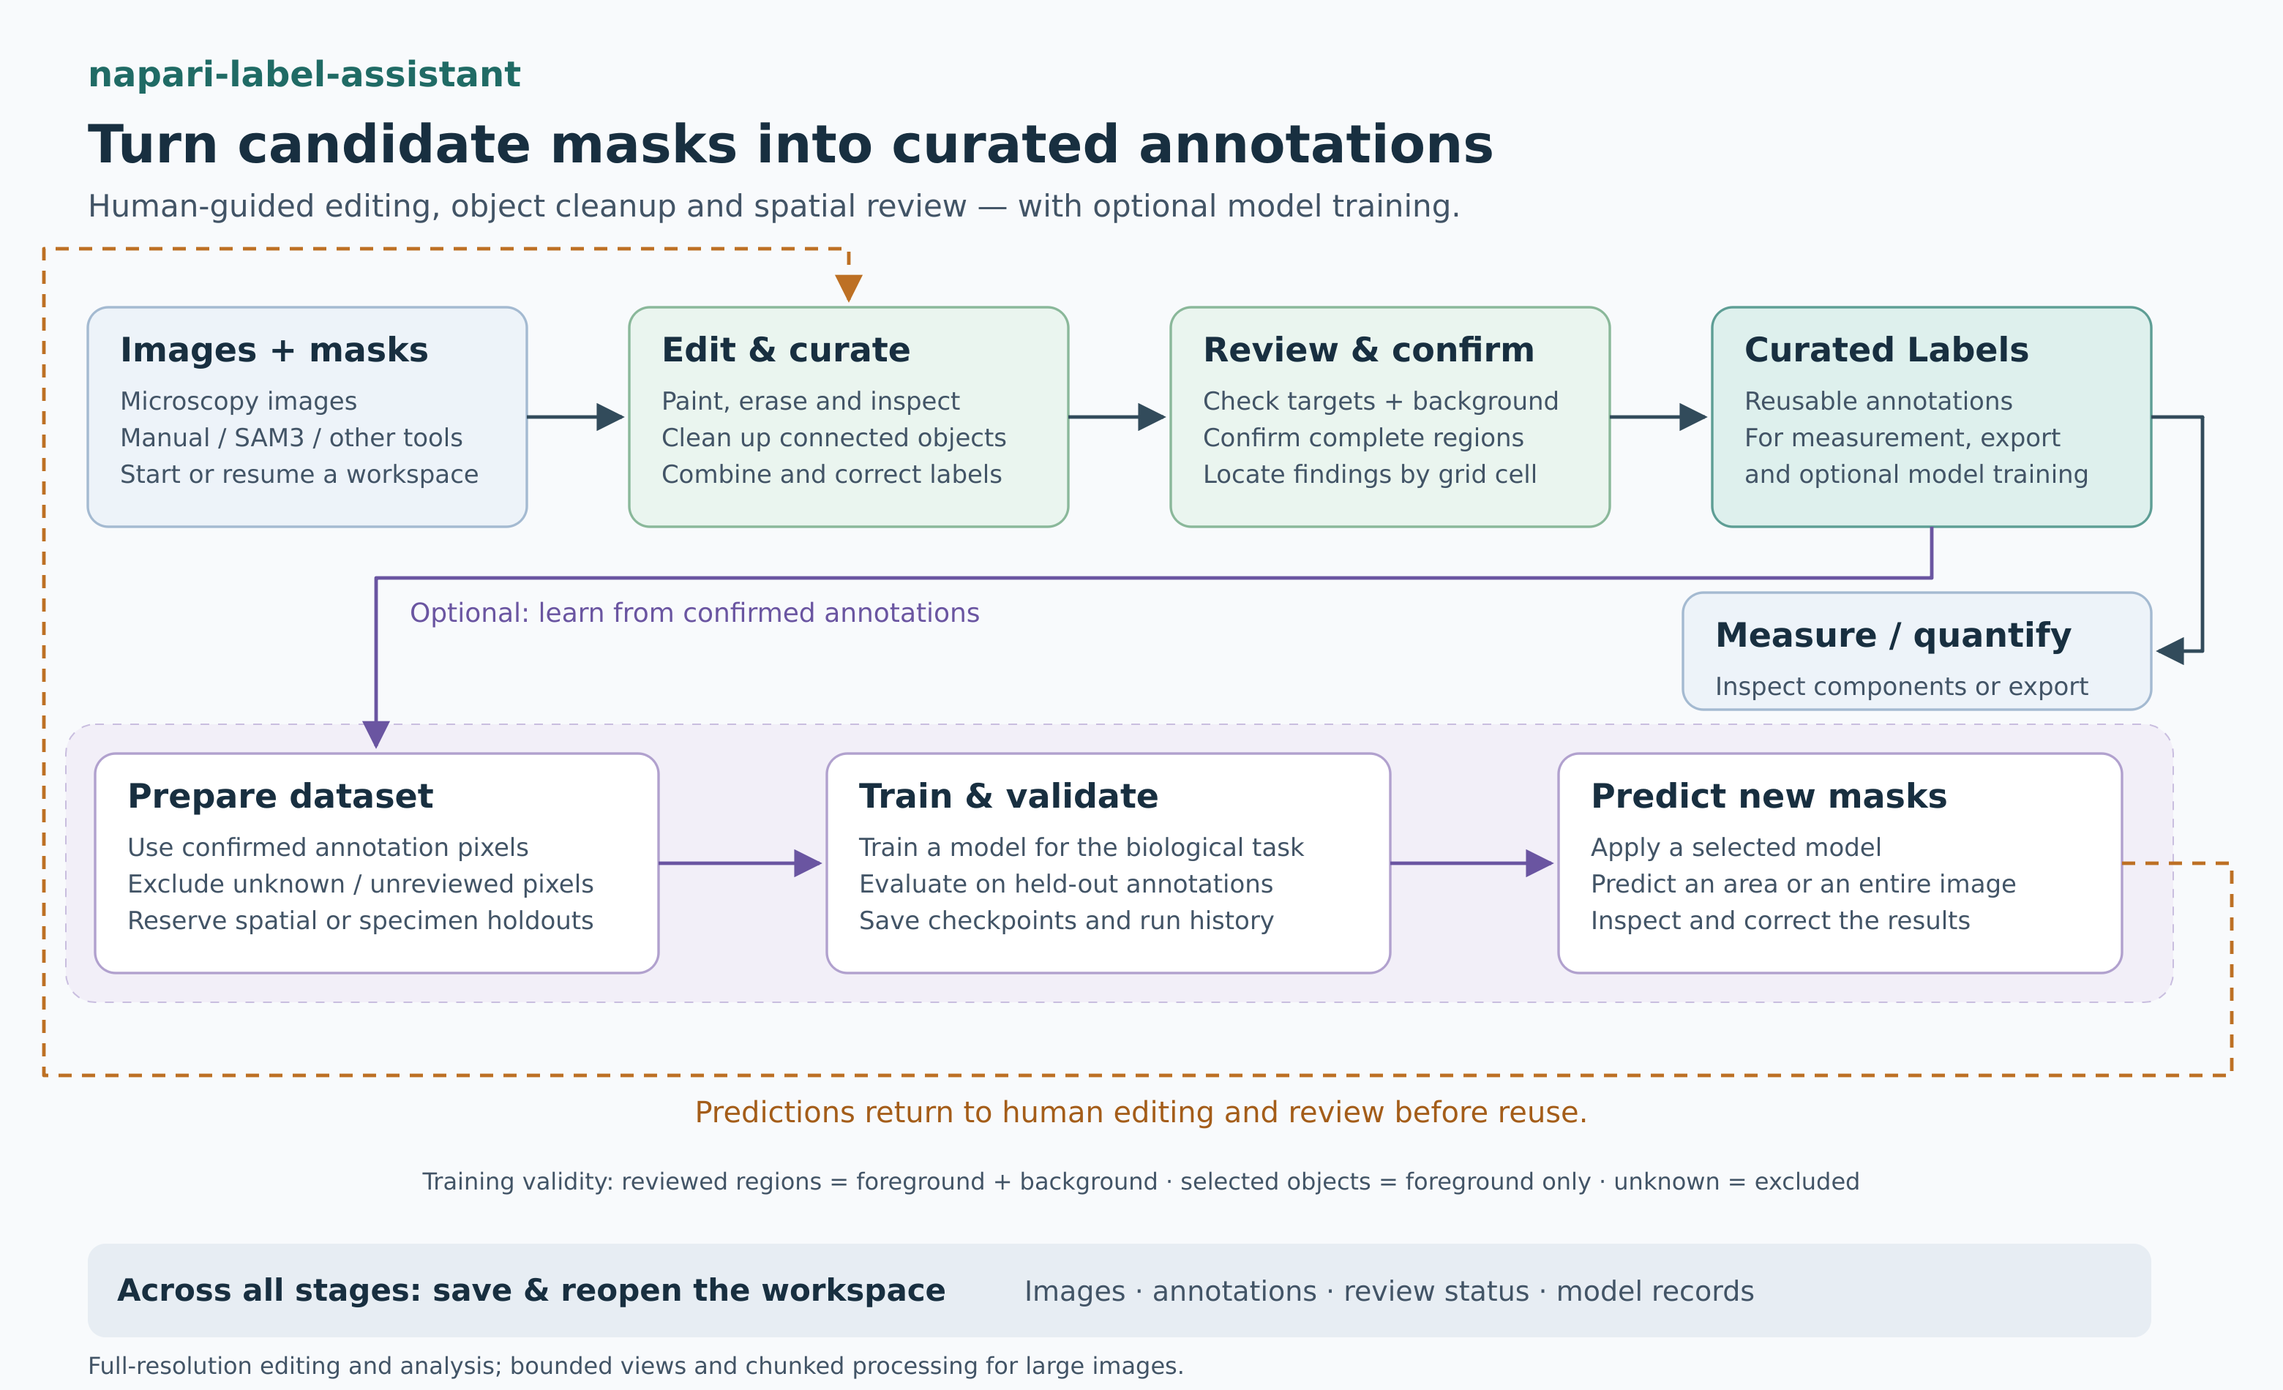
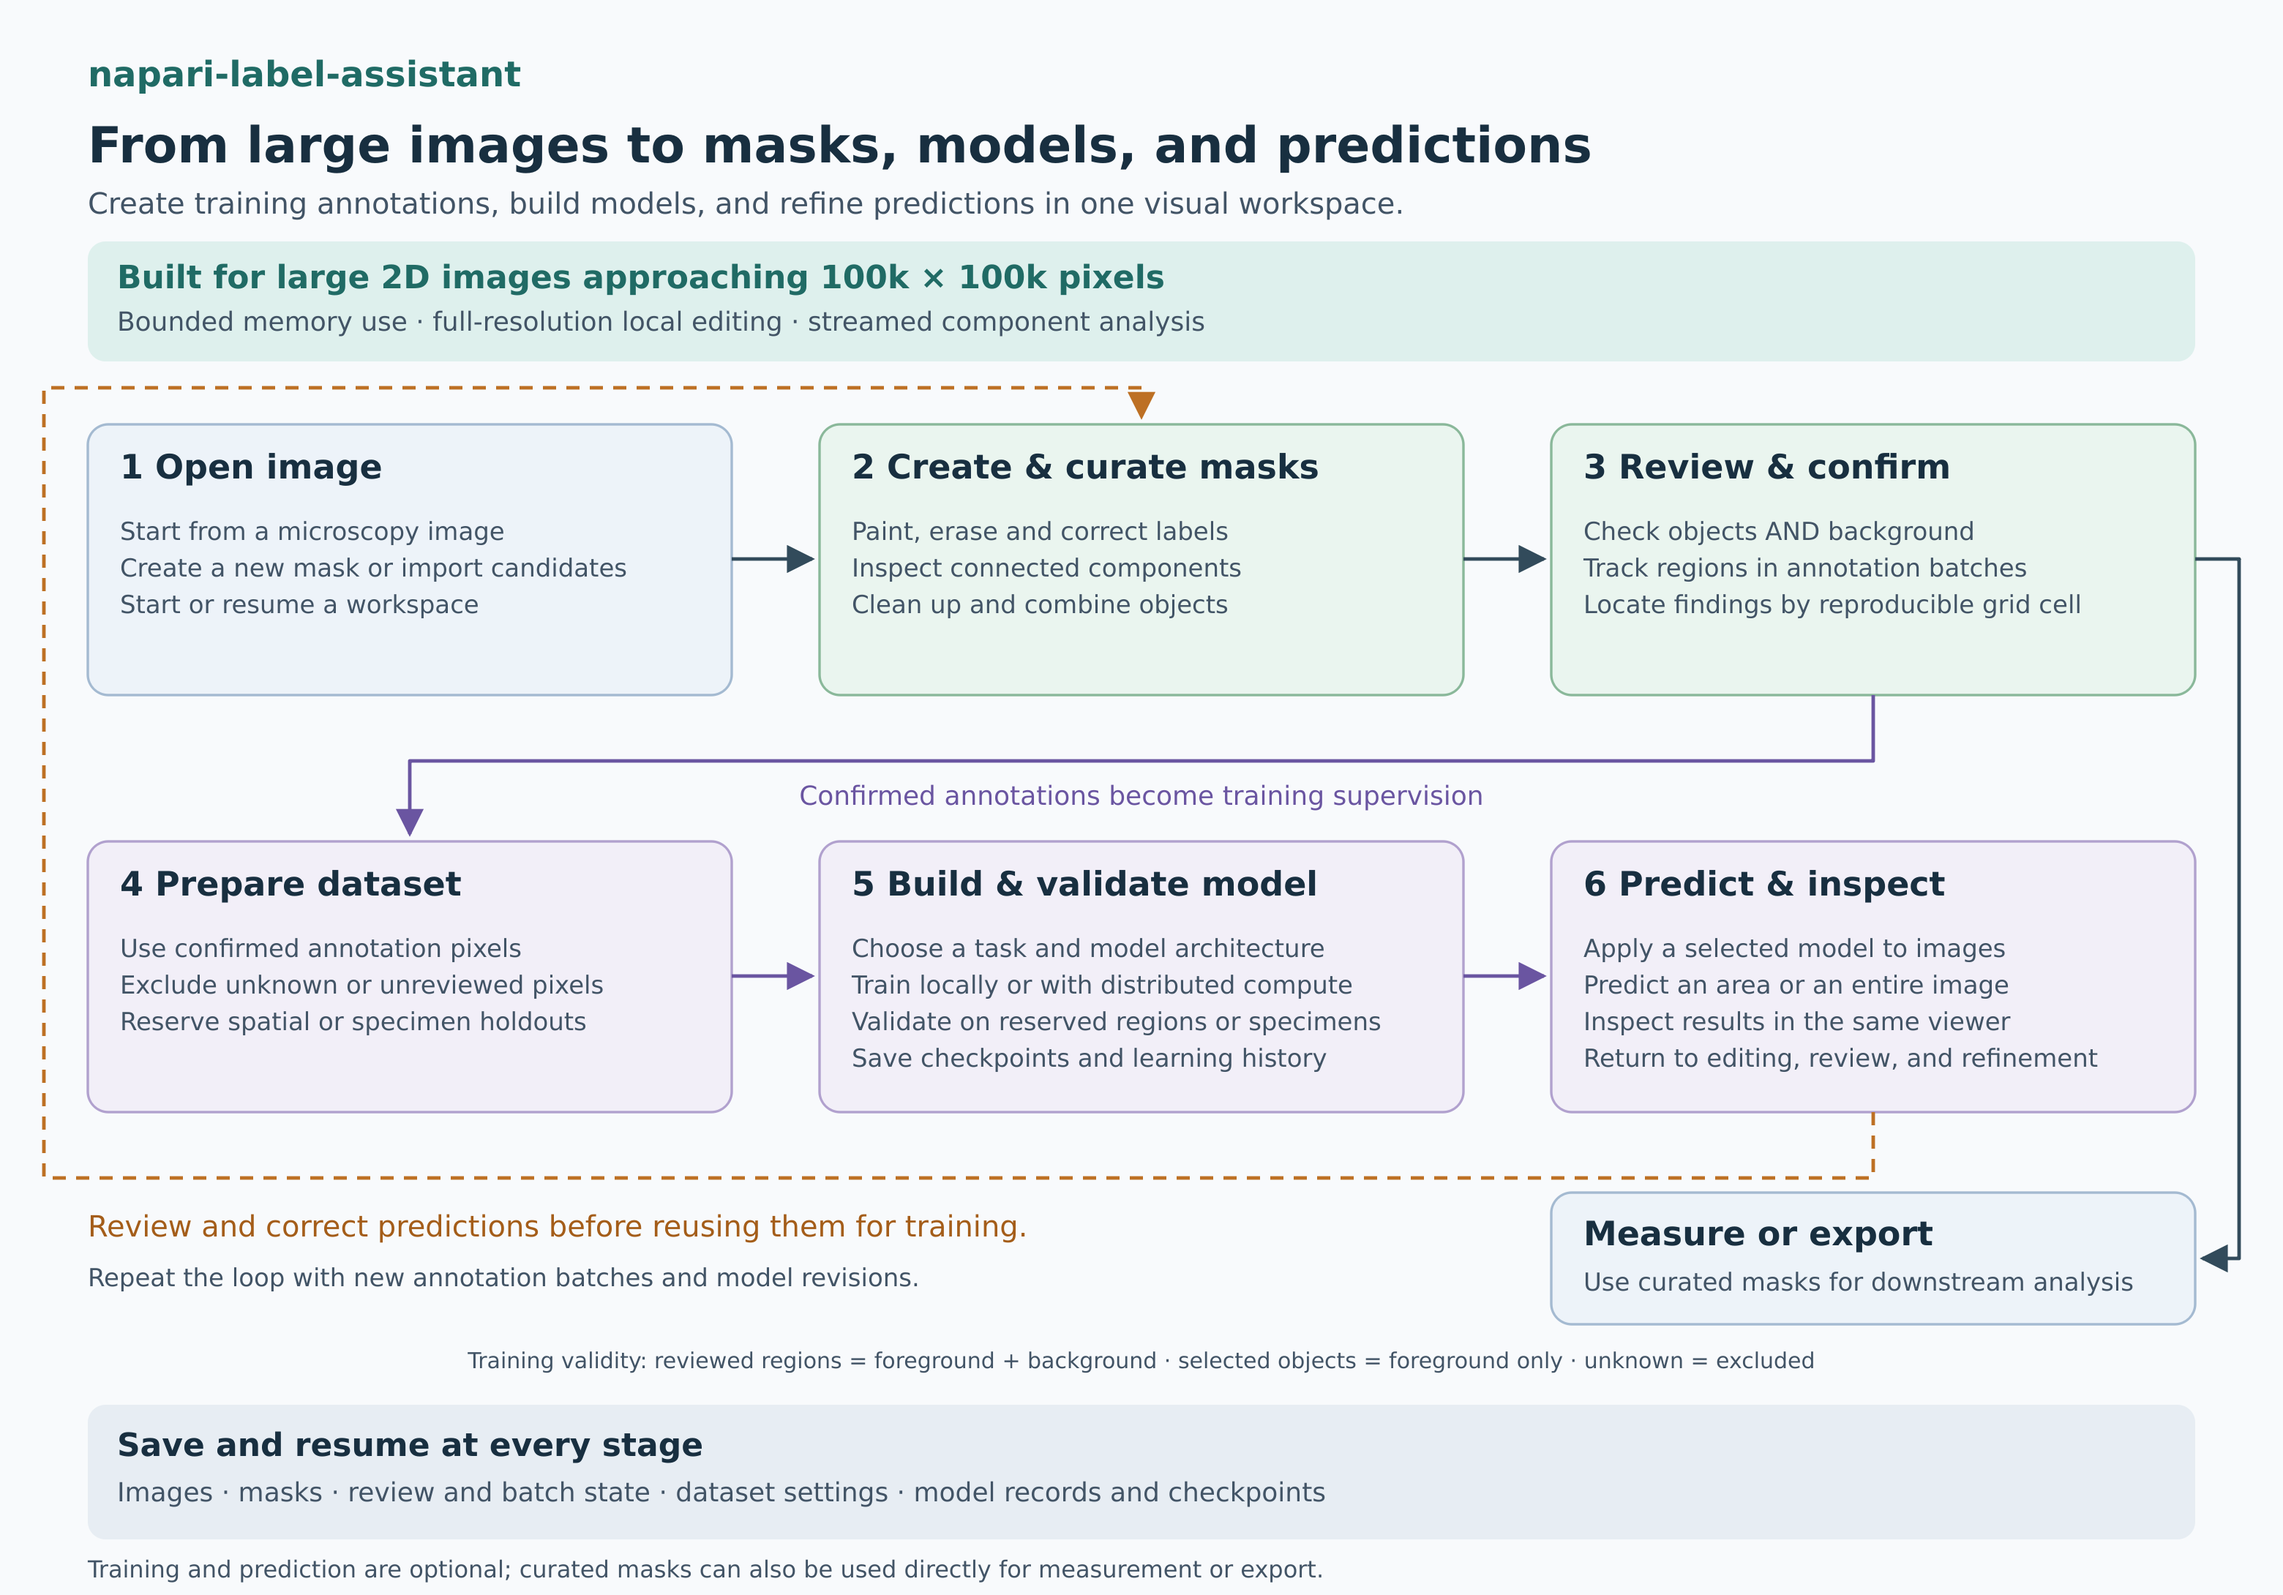
docs: update GUI screenshot and end-to-end workflow figure

diff --git a/docs/generate_purpose_flowchart.py b/docs/generate_purpose_flowchart.py
@@ -4,17 +4,17 @@ from pathlib import Path
 import argparse
 
 ROOT = Path(__file__).resolve().parent
-WIDTH, HEIGHT = 1560, 950
+WIDTH, HEIGHT = 1560, 1090
 
 
 def build_svg():
     parts = [f'<svg xmlns="http://www.w3.org/2000/svg" width="{WIDTH}" height="{HEIGHT}" viewBox="0 0 {WIDTH} {HEIGHT}" role="img" aria-labelledby="title desc">',
              '<title id="title">napari-label-assistant: purpose and workflow</title>',
-             '<desc id="desc">Open microscopy images and candidate masks, edit and curate, review and confirm, then use curated labels for measurement or optional dataset preparation, training, and prediction. Predictions return to human editing. Workspace saving supports every stage.</desc>',
+             '<desc id="desc">An end-to-end visual segmentation workflow in napari: open an image, create or import masks, curate and confirm annotations, prepare reviewed training data, train and validate a model locally or with distributed compute, and predict new masks. Predictions return to human editing and review. Bounded memory use supports large 2D images approaching 100,000 by 100,000 pixels. Curated annotations can also be measured or exported, and the workspace can be saved and resumed throughout.</desc>',
              '<defs>']
     for key, color in [('main', '#324b5b'), ('learn', '#6a55a1'), ('feedback', '#bd7024')]:
         parts.append(f'<marker id="{key}" viewBox="0 0 10 10" refX="9" refY="5" markerWidth="8" markerHeight="8" orient="auto-start-reverse"><path d="M0 0 L10 5 L0 10 Z" fill="{color}"/></marker>')
-    parts.extend(['</defs>', '<rect width="1560" height="950" fill="#f8fafc"/>',
+    parts.extend(['</defs>', f'<rect width="{WIDTH}" height="{HEIGHT}" fill="#f8fafc"/>',
                   '<g font-family="DejaVu Sans, Arial, sans-serif">'])
 
     def text(x, y, value, size=17, color='#425466', weight='400', anchor='start'):
@@ -24,7 +24,7 @@ def build_svg():
         parts.append(f'<rect x="{x}" y="{y}" width="{w}" height="{h}" rx="14" fill="{fill}" stroke="{border}" stroke-width="1.7"/>')
         text(x+22, y+37, title, 23, '#182f40', '700')
         for i, line in enumerate(lines):
-            text(x+22, y+70+i*25, line, 17)
+            text(x+22, y+79+i*25, line, 17)
 
     def arrow(path, kind='main', dashed=False):
         color = {'main': '#324b5b', 'learn': '#6a55a1', 'feedback': '#bd7024'}[kind]
@@ -32,42 +32,48 @@ def build_svg():
         parts.append(f'<path d="{path}" fill="none" stroke="{color}" stroke-width="2.4" stroke-linejoin="round"{dash} marker-end="url(#{kind})"/>')
 
     text(60, 59, 'napari-label-assistant', 24, '#206b65', '700')
-    text(60, 111, 'Turn candidate masks into curated annotations', 36, '#182f40', '700')
-    text(60, 148, 'Human-guided editing, object cleanup and spatial review — with optional model training.', 21)
+    text(60, 111, 'From large images to masks, models, and predictions', 34, '#182f40', '700')
+    text(60, 146, 'Create training annotations, build models, and refine predictions in one visual workspace.', 20)
 
-    box(60, 210, 300, 150, '#edf3f9', '#a4bad1', 'Images + masks',
-        ['Microscopy images', 'Manual / SAM3 / other tools', 'Start or resume a workspace'])
-    box(430, 210, 300, 150, '#eaf5ef', '#8ab89a', 'Edit & curate',
-        ['Paint, erase and inspect', 'Clean up connected objects', 'Combine and correct labels'])
-    box(800, 210, 300, 150, '#eaf5ef', '#8ab89a', 'Review & confirm',
-        ['Check targets + background', 'Confirm complete regions', 'Locate findings by grid cell'])
-    box(1170, 210, 300, 150, '#def0ed', '#5e9e95', 'Curated Labels',
-        ['Reusable annotations', 'For measurement, export', 'and optional model training'])
-    for start, end in [(360, 430), (730, 800), (1100, 1170)]:
-        arrow(f'M{start} 285 H{end-5}')
+    parts.append('<rect x="60" y="165" width="1440" height="82" rx="12" fill="#def0ed"/>')
+    text(80, 197, 'Built for large 2D images approaching 100k × 100k pixels', 22, '#206b65', '700')
+    text(80, 226, 'Bounded memory use · full-resolution local editing · streamed component analysis', 18)
 
-    box(1150, 405, 320, 80, '#edf3f9', '#a4bad1', 'Measure / quantify', ['Inspect components or export'])
-    arrow('M1470 285 H1505 V445 H1475')
-    text(280, 425, 'Optional: learn from confirmed annotations', 18, '#6a55a1')
+    box(60, 290, 440, 185, '#edf3f9', '#a4bad1', '1  Open image',
+        ['Start from a microscopy image', 'Create a new mask or import candidates', 'Start or resume a workspace'])
+    box(560, 290, 440, 185, '#eaf5ef', '#8ab89a', '2  Create & curate masks',
+        ['Paint, erase and correct labels', 'Inspect connected components', 'Clean up and combine objects'])
+    box(1060, 290, 440, 185, '#eaf5ef', '#8ab89a', '3  Review & confirm',
+        ['Check objects AND background', 'Track regions in annotation batches', 'Locate findings by reproducible grid cell'])
+    for start, end in [(500, 560), (1000, 1060)]:
+        arrow(f'M{start} 382 H{end-5}')
 
-    parts.append('<rect x="45" y="495" width="1440" height="190" rx="20" fill="#f2eff8" stroke="#c9bedf" stroke-dasharray="6 6"/>')
-    box(65, 515, 385, 150, '#ffffff', '#b1a1ce', 'Prepare dataset',
-        ['Use confirmed annotation pixels', 'Exclude unknown / unreviewed pixels', 'Reserve spatial or specimen holdouts'])
-    box(565, 515, 385, 150, '#ffffff', '#b1a1ce', 'Train & validate',
-        ['Train a model for the biological task', 'Evaluate on held-out annotations', 'Save checkpoints and run history'])
-    box(1065, 515, 385, 150, '#ffffff', '#b1a1ce', 'Predict new masks',
-        ['Apply a selected model', 'Predict an area or an entire image', 'Inspect and correct the results'])
-    arrow('M1320 360 V395 H257 V510', 'learn')
-    arrow('M450 590 H560', 'learn')
-    arrow('M950 590 H1060', 'learn')
-    arrow('M1450 590 H1525 V735 H30 V170 H580 V205', 'feedback', True)
-    text(780, 767, 'Predictions return to human editing and review before reuse.', 20, '#a45d19', '500', 'middle')
+    arrow('M1280 475 V520 H280 V570', 'learn')
+    text(780, 550, 'Confirmed annotations become training supervision', 18, '#6a55a1', anchor='middle')
 
-    text(780, 813, 'Training validity: reviewed regions = foreground + background · selected objects = foreground only · unknown = excluded', 16, '#425466', anchor='middle')
-    parts.append('<rect x="60" y="850" width="1410" height="64" rx="12" fill="#e7edf3"/>')
-    text(80, 889, 'Across all stages: save & reopen the workspace', 21, '#182f40', '700')
-    text(700, 889, 'Images · annotations · review status · model records', 19)
-    text(60, 939, 'Full-resolution editing and analysis; bounded views and chunked processing for large images.', 16)
+    box(60, 575, 440, 185, '#f2eff8', '#b1a1ce', '4  Prepare dataset',
+        ['Use confirmed annotation pixels', 'Exclude unknown or unreviewed pixels', 'Reserve spatial or specimen holdouts'])
+    box(560, 575, 440, 185, '#f2eff8', '#b1a1ce', '5  Build & validate model',
+        ['Choose a task and model architecture', 'Train locally or with distributed compute', 'Validate on reserved regions or specimens', 'Save checkpoints and learning history'])
+    box(1060, 575, 440, 185, '#f2eff8', '#b1a1ce', '6  Predict & inspect',
+        ['Apply a selected model to images', 'Predict an area or an entire image', 'Inspect results in the same viewer', 'Return to editing, review, and refinement'])
+    for start, end in [(500, 560), (1000, 1060)]:
+        arrow(f'M{start} 667 H{end-5}', 'learn')
+
+    arrow('M1280 760 V805 H30 V265 H780 V285', 'feedback', True)
+    text(60, 845, 'Review and correct predictions before reusing them for training.', 20, '#a45d19', '500')
+    text(60, 879, 'Repeat the loop with new annotation batches and model revisions.', 17)
+
+    parts.append('<rect x="1060" y="815" width="440" height="90" rx="14" fill="#edf3f9" stroke="#a4bad1" stroke-width="1.7"/>')
+    text(1082, 851, 'Measure or export', 23, '#182f40', '700')
+    text(1082, 882, 'Use curated masks for downstream analysis', 17)
+    arrow('M1500 382 H1530 V860 H1505')
+
+    text(780, 935, 'Training validity: reviewed regions = foreground + background · selected objects = foreground only · unknown = excluded', 15, '#425466', anchor='middle')
+    parts.append('<rect x="60" y="960" width="1440" height="92" rx="12" fill="#e7edf3"/>')
+    text(80, 995, 'Save and resume at every stage', 22, '#182f40', '700')
+    text(80, 1026, 'Images · masks · review and batch state · dataset settings · model records and checkpoints', 18)
+    text(60, 1078, 'Training and prediction are optional; curated masks can also be used directly for measurement or export.', 16)
     parts.extend(['</g>', '</svg>'])
     return '\n'.join(parts) + '\n'
 

diff --git a/README.md b/README.md
@@ -13,13 +13,14 @@ The plugin is model-agnostic. Candidate masks can come from manual annotation,
 SAM3, or another segmentation workflow. The final curated layer can then be
 used for training, measurement, quantification, or export.
 
-![Simple mode showing a microscopy image, curated mask, reviewed regions, annotation batches, and the fixed progress summary](docs/simple-mode-gui.png)
+![Model Training showing validation curves and distributed training progress beside a microscopy image and Label Curation with reviewed annotation batches](docs/simple-mode-gui.png)
 
-**Simple mode in napari:** the fixed top summary keeps task progress, confirmed
-tiles, and batch counts visible without scrolling. Purple outlines show the
-active batch's approved regions. [View full-size screenshot](docs/simple-mode-gui.png).
+**Annotation and model training in napari:** follow validation curves and
+distributed training progress alongside the image, reviewed regions, and
+annotation batches. The fixed top summary keeps task progress and review counts
+visible without scrolling. [View full-size screenshot](docs/simple-mode-gui.png).
 
-![Plugin purpose: curate and review masks, then measure or optionally train models](docs/purpose-flowchart.png)
+![End-to-end segmentation workflow: large images, mask creation and curation, reviewed training data, local or distributed model training, and prediction refinement in one resumable napari workspace](docs/purpose-flowchart.png)
 
 [Open the editable purpose flowchart](docs/purpose-flowchart.svg).
 
